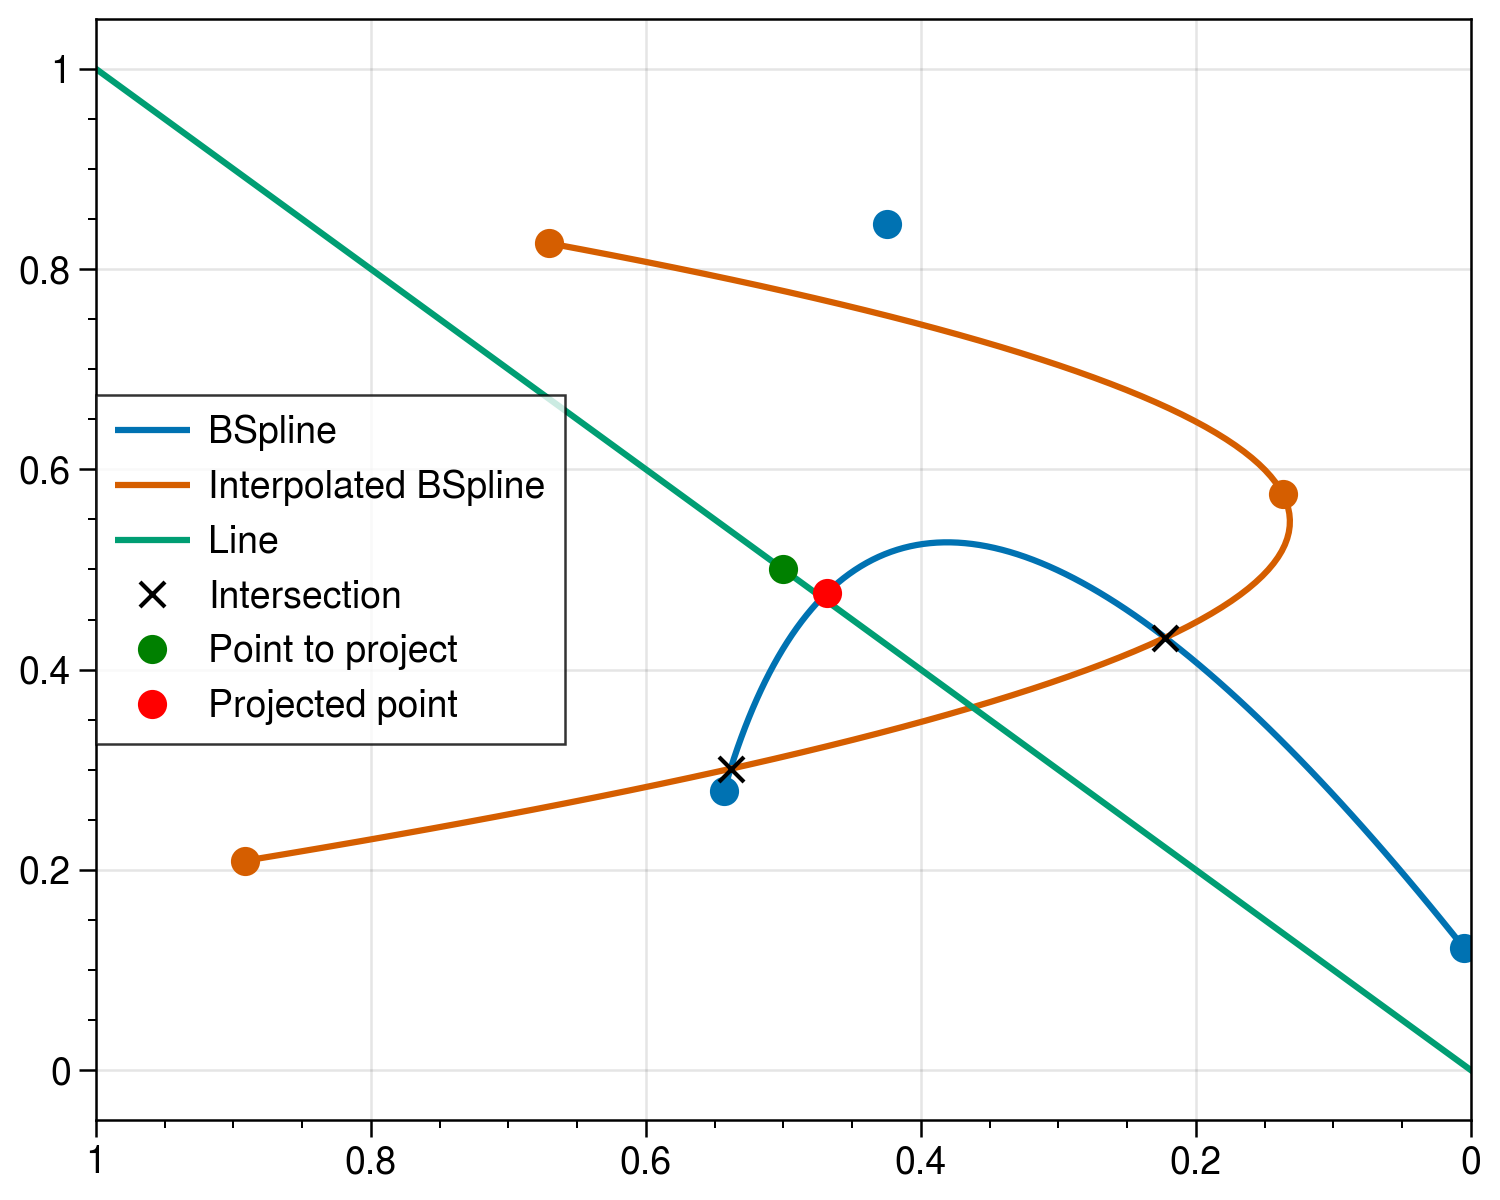
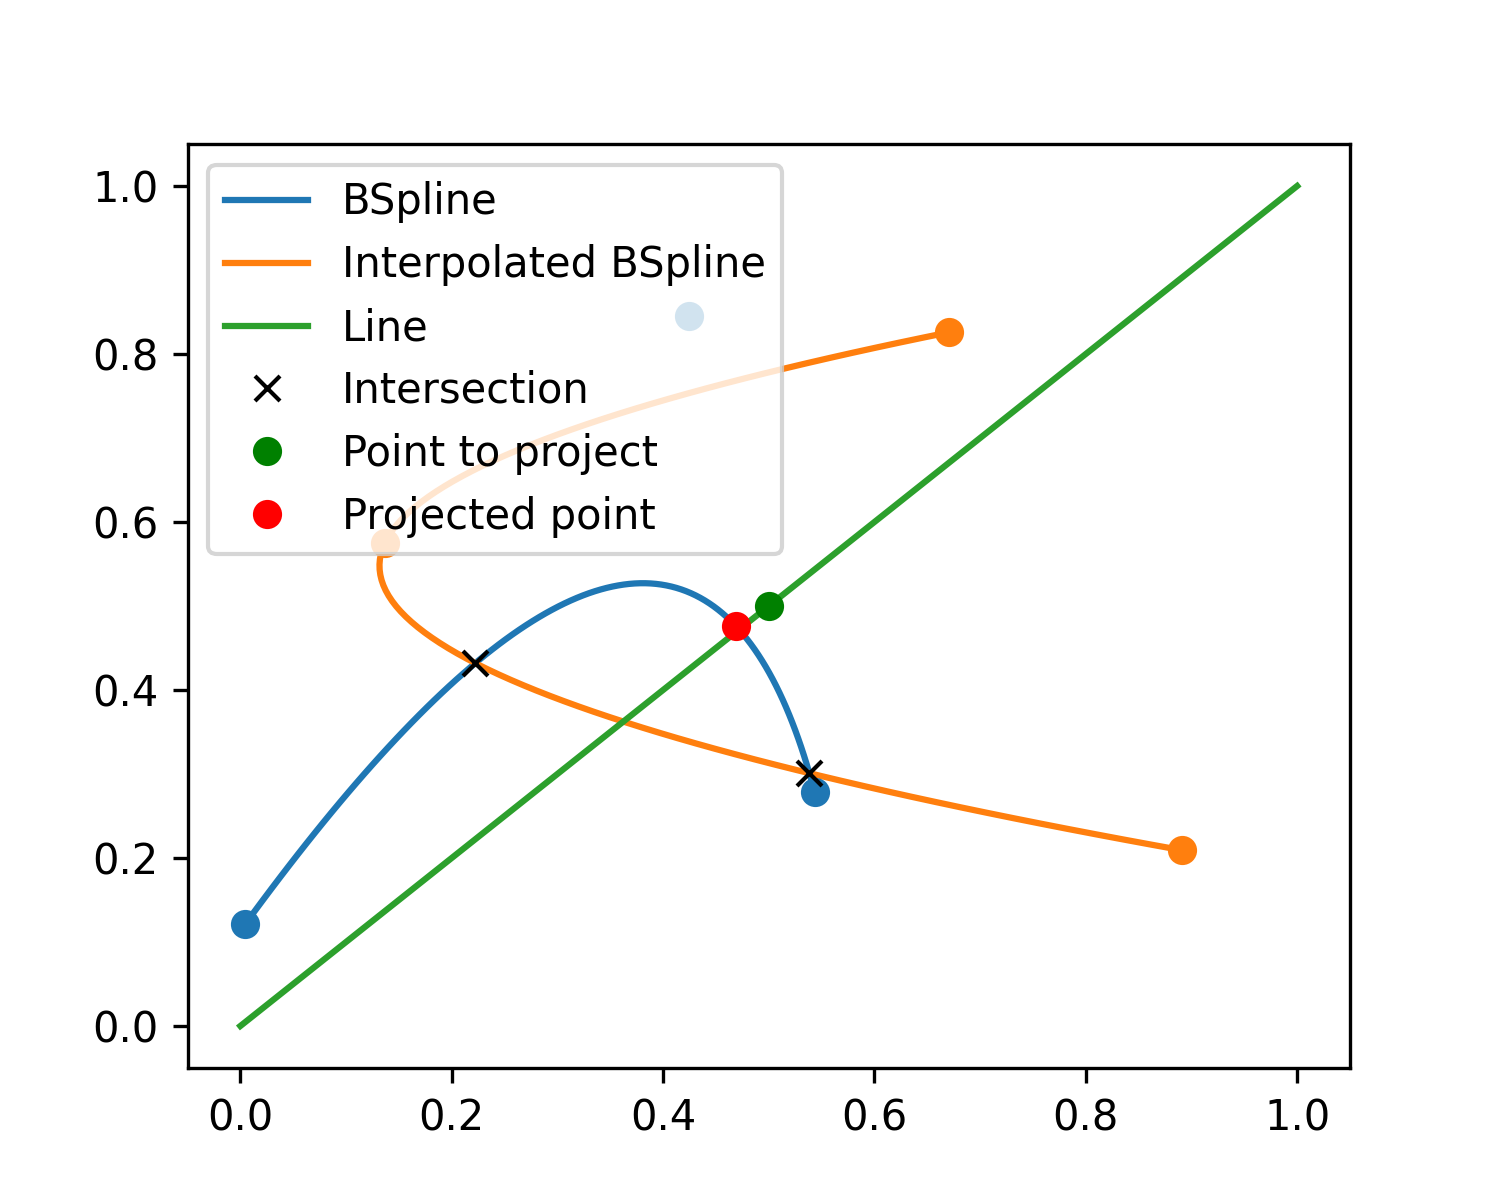
refactor: update import handling for proplot and matplotlib; version bump to 0.2

diff --git a/example_rotating_caliper.py b/example_rotating_caliper.py
@@ -4,7 +4,10 @@ import numpy as np
 from scipy.spatial import ConvexHull
 from splines import max_distant_pair
 
-
+try:
+    import proplot as pplt
+except ImportError:
+    import matplotlib.pyplot as pplt
 
 for i in range(20):
 
@@ -24,9 +27,8 @@ for i in range(20):
     p1 = points[pts_idx[0]]
     p2 = points[pts_idx[1]]
 
-    import proplot as pplt 
 
-    fig, ax = pplt.subplots(aspect=1, figsize=(4,4))
+    fig, ax = pplt.subplots(figsize=(4,4))
     ax.plot(points[:,0], points[:,1], 'o', color='black', markersize=2)
     ax.plot([p1[0], p2[0]], [p1[1], p2[1]], 'r-')
     fig.show

diff --git a/splines/spline.py b/splines/spline.py
@@ -4,6 +4,7 @@ from sklearn.cluster import DBSCAN
 from geomdl.operations import split_curve, refine_knotvector
 
 import numpy as np
+import math
 from geomdl import BSpline, knotvector, NURBS
 from geomdl.fitting import interpolate_curve, approximate_curve
 from copy import copy
@@ -115,12 +116,12 @@ class Spline:
             t = np.clip(t_extra, 0.0, 1.0)
             for i in range(order + 1):
                 tangent = np.array(self.spline.derivatives(u=t, order=d + i)[-1])
-                correction += tangent * (t_extra - t) ** i / np.math.factorial(i)
+                correction += tangent * (t_extra - t) ** i / math.factorial(i)
         else:
             t = np.clip(t_extra, self.spline.start(), self.spline.end())
             for i in range(order + 1):
                 tangent = self.spline.derivative(t, d=i + d)
-                correction += tangent * (t_extra - t) ** i / np.math.factorial(i)
+                correction += tangent * (t_extra - t) ** i / math.factorial(i)
         return correction
 
     def _evaluate_extra(self, t: np.array, order=1, d=0) -> np.array:

diff --git a/example.py b/example.py
@@ -4,8 +4,8 @@ from splines import Spline, intersection, Line
 import numpy as np
 try:
     import proplot as pplt
-except:
-    pass
+except ImportError:
+    import matplotlib.pyplot as pplt
 
 
 # seed numpy

diff --git a/setup.py b/setup.py
@@ -2,7 +2,7 @@ from setuptools import setup, find_packages
 
 setup(
     name='splines',
-    version='0.1',
+    version='0.2',
     author="Christian Hauschel",
     packages=find_packages(),
     install_requires=[